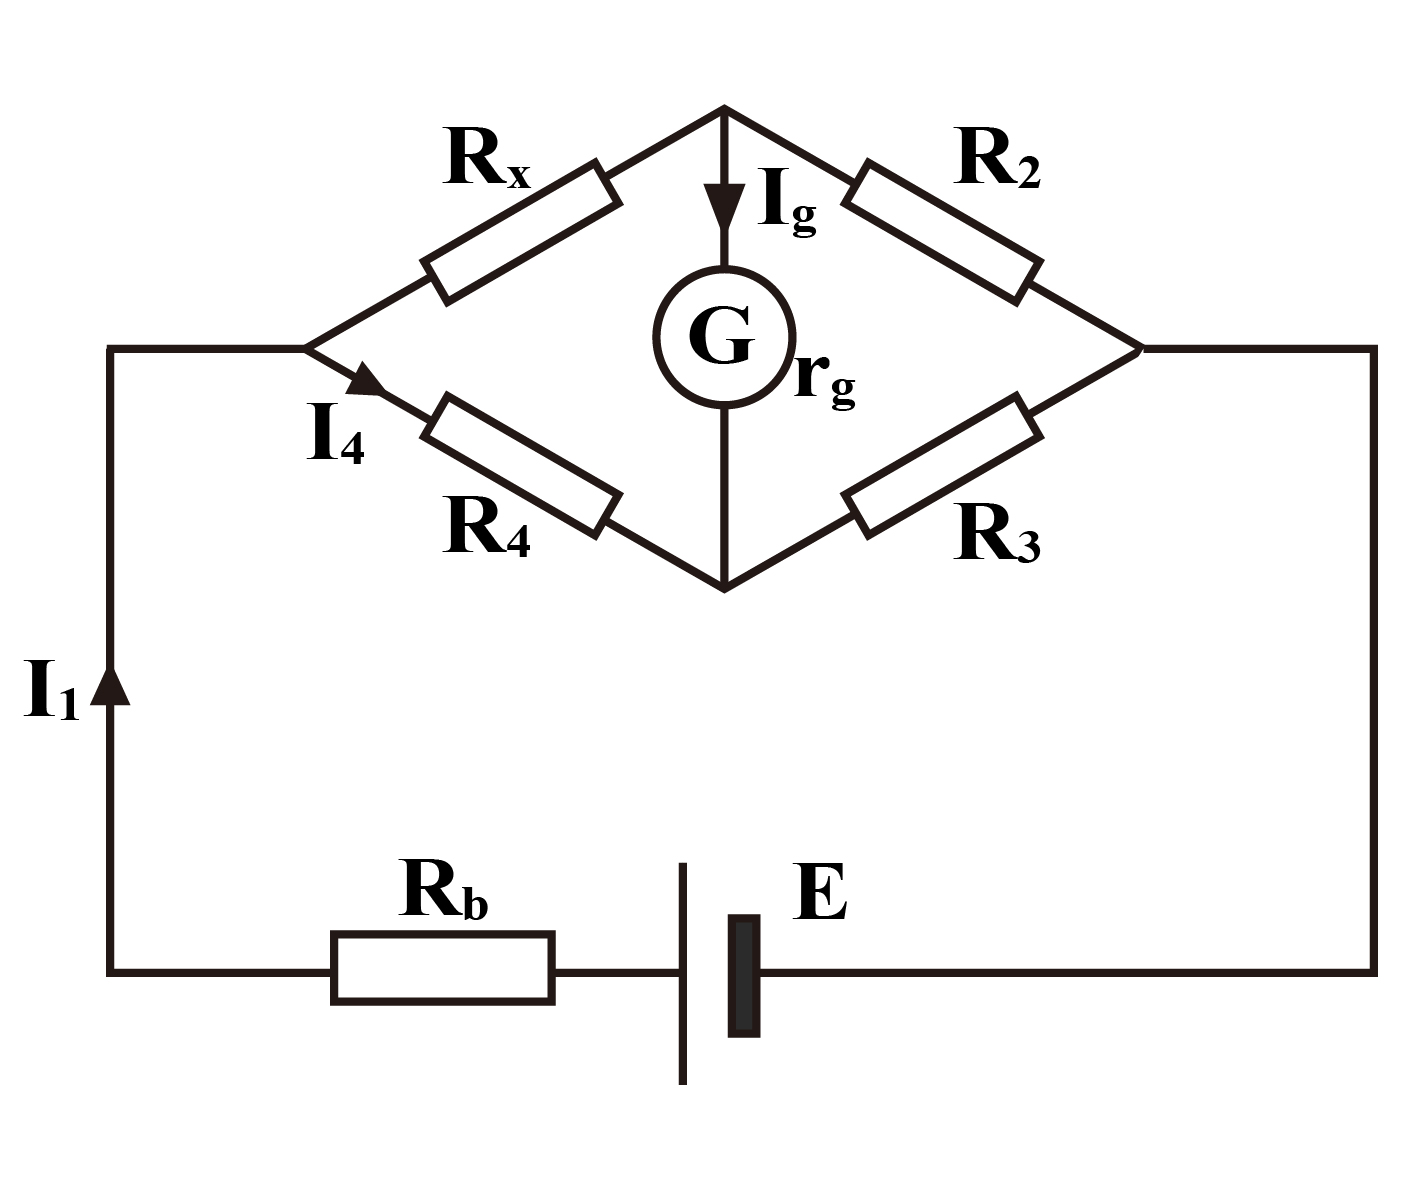
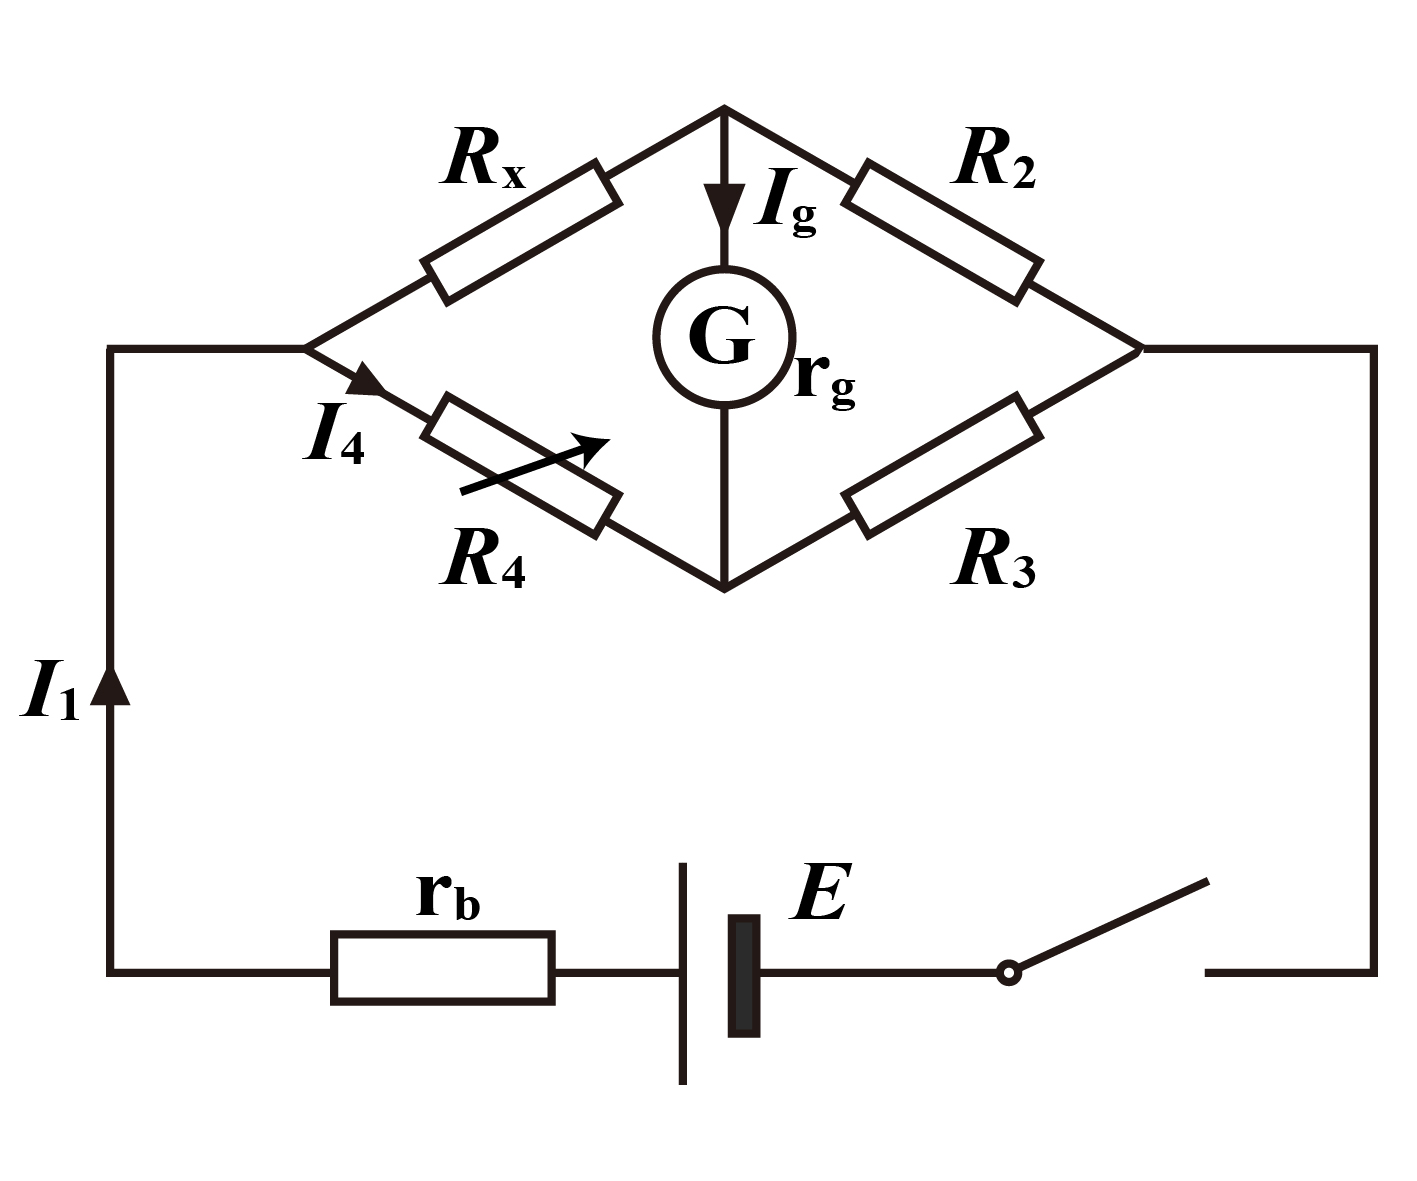
Add files via upload

diff --git a/WBOpt.py b/WBOpt.py
@@ -54,8 +54,8 @@ def search_around_best_values(Rx, Rb, rg, E, update_progress, n):
     
     best_R2, best_R3 = result.x
     max_sensitivity = -result.fun
-    best_values = [Rx, round(best_R2, 2), round(best_R3, 2), 
-                   round(Rx * best_R3 / best_R2, 2), round(max_sensitivity, 8), 
+    best_values = [Rx, round(best_R2, 1), round(best_R3, 1), 
+                   round(Rx * best_R3 / best_R2, 1), round(max_sensitivity, 8), 
                    round(best_R2 / best_R3, 2)]
     return best_values
 
@@ -76,7 +76,7 @@ root.grid_columnconfigure(1, weight=1)
 root.grid_columnconfigure(2, weight=1)
 
 # Create label controls
-labels = ["E (V):", "Rb (Ω):", "rg (Ω):", "Rx (Ω):"]
+labels = ["E (V):", "rb (Ω):", "rg (Ω):", "Rx (Ω):"]
 for i, text in enumerate(labels):
     label = tk.Label(root, text=text, font=("Times New Roman", 14), fg="blue")
     label.grid(row=i, column=0, padx=10, pady=3, sticky='e')
@@ -109,9 +109,9 @@ def update_gui():
         best_values = progress_queue.get_nowait()
         result_label.config(
             text=(
-                f"                     Best R2:     {best_values[1]:10.2f}Ω\n"
-                f"                     Best R3:      {best_values[2]:10.2f}Ω\n"
-                f"               Approx. R4:      {best_values[3]:10.2f}Ω\n"
+                f"                     Best R2:     {best_values[1]:10.1f}Ω\n"
+                f"                     Best R3:      {best_values[2]:10.1f}Ω\n"
+                f"               Approx. R4:      {best_values[3]:10.1f}Ω\n"
                 f"                 Sensitivity:       {best_values[4]:10.2e}\n"
                 f"                       R2/R3:        {best_values[5]:10.2f}"
             ),
